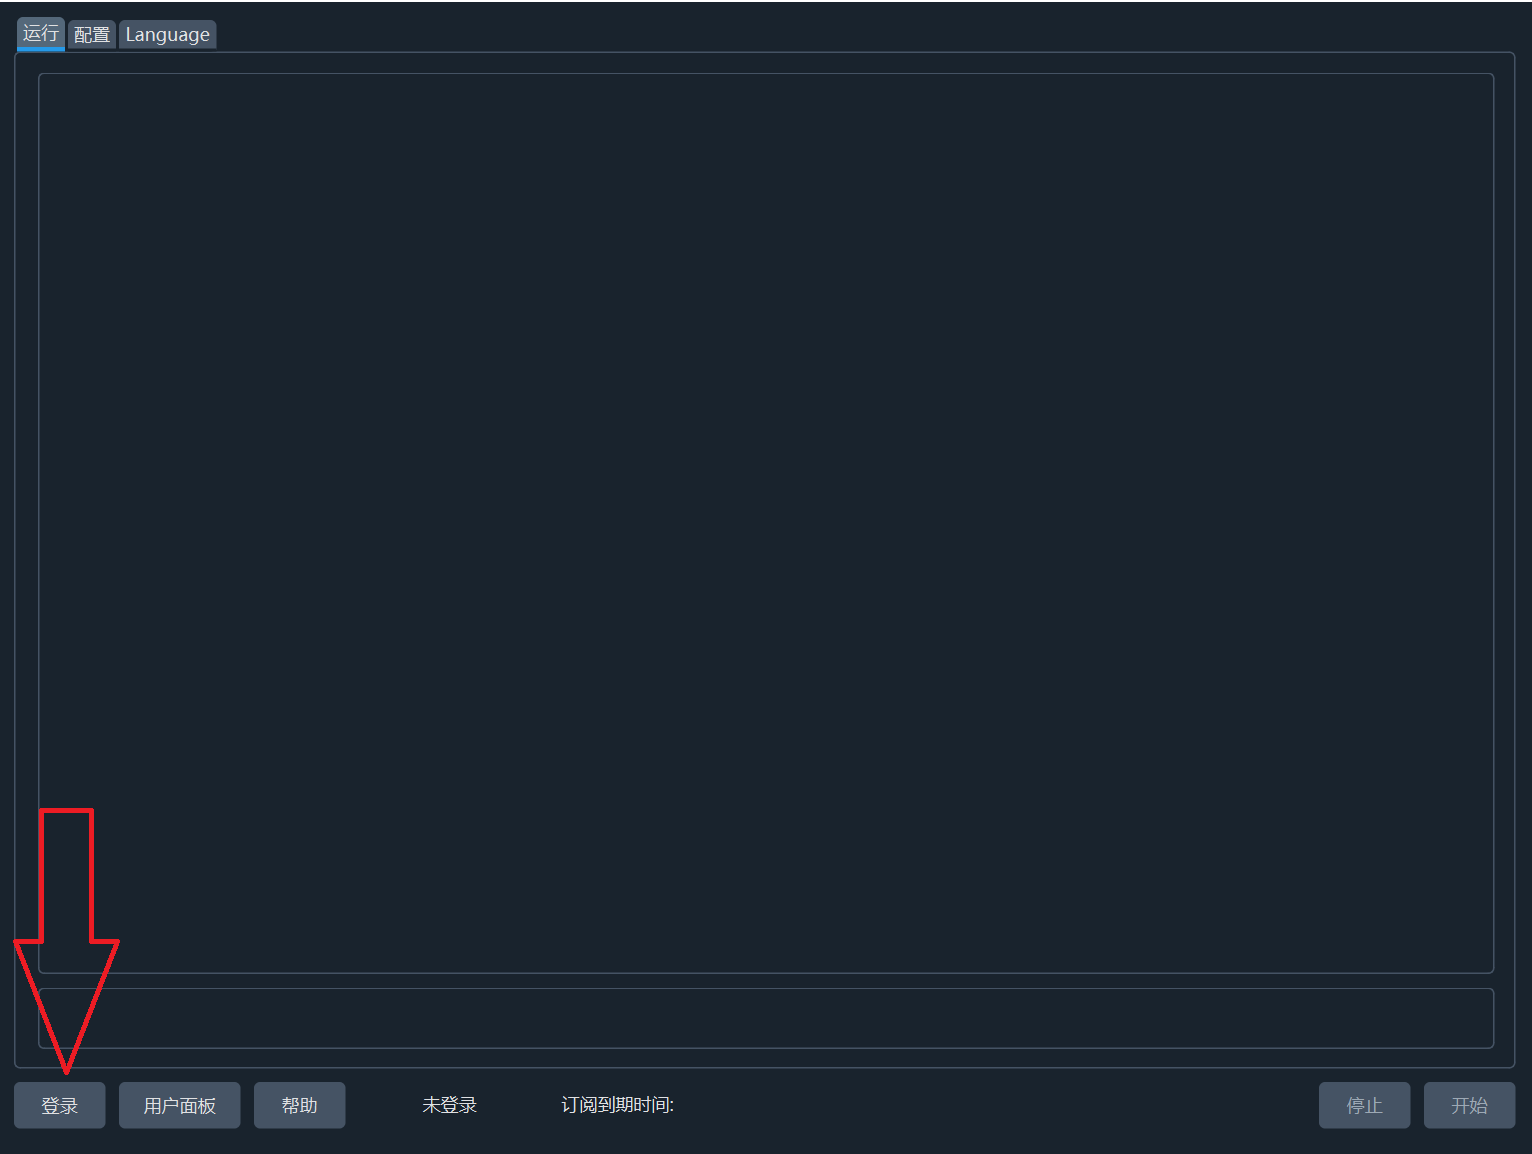
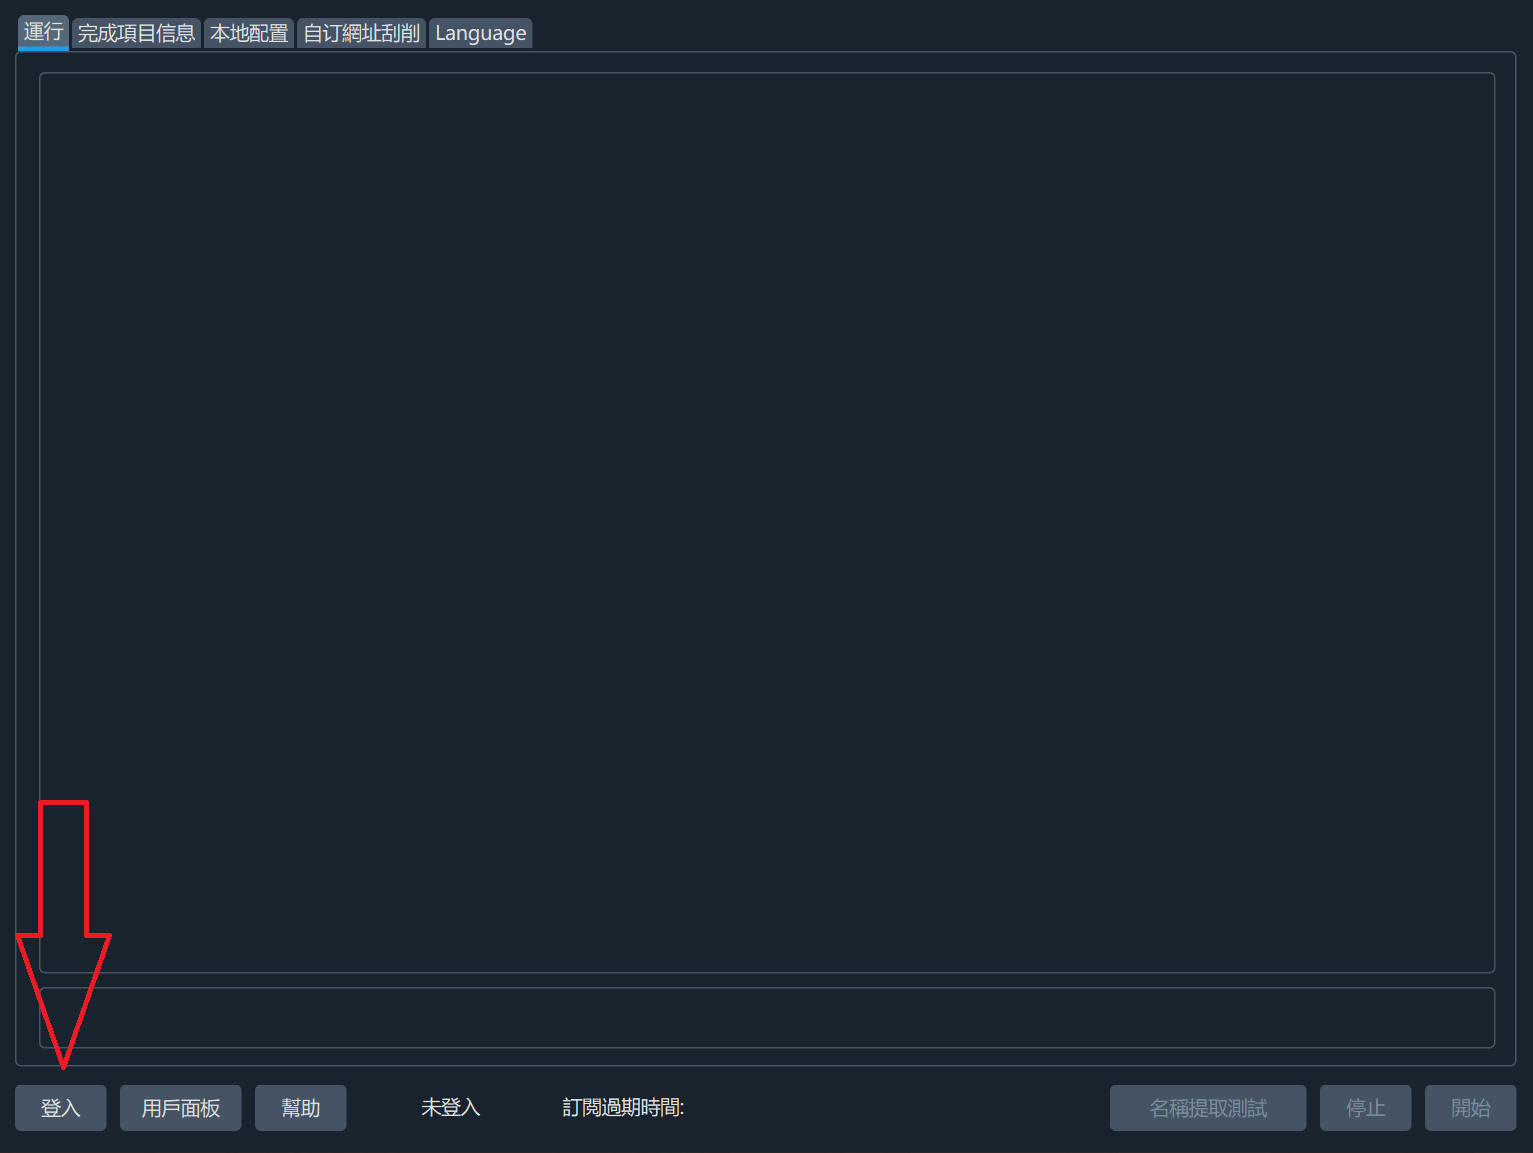
1

diff --git a/docs/cht/README.md b/docs/cht/README.md
@@ -21,8 +21,12 @@
 * 强烈建議在使用Docker版本前，先使用Windows或macOS版本
 
 ## 2. 註冊帳號並登入
-* 在網頁端的[用戶面板](https://user.mvdc.top)註冊帳號並登入
-* 可在網頁端登入後，進行個人化[設定](https://user.mvdc.top/configuration/general)，新用戶建議使用當前默認設定
+* 在網頁端的[用戶面板](https://user.mvdc.top)註冊帳號
+* 打開客戶端，點擊`登入`
+
+![](/images/readme1.png)
+
+* 可在網頁端登入後，進行個性化[設定](https://user.mvdc.top/configuration/general)，新用戶建議使用當前默認設定
 * 雲端配置支援多個配置實例，可新增多個雲端配置實例，應對不同類型的影片
 * 每個帳號最多可登入3台設備，兩種配置各最多6個雲端配置實例
 *（可選）如果頻繁使用或對資料精準有要求，建議閣下申請[TMDB API KEY](/cht/configuration.html#tmdb-api-key)填入雲端設定中
@@ -39,15 +43,15 @@
 
 * 預設情況下，輸入資料夾為程式所在目錄，輸出資料夾為程式所在目錄下新建的`output`資料夾
 
-### 外掛字幕文件
-若在`刮削目錄`中，字幕檔名前綴名與影片檔前綴名一致，則會在後續處理中，自動移動到與影片同一目錄下，同時在NFO元資料檔標籤中打上`字幕`標籤， 並為封面打上浮水印（可自行在網頁雲端設定頁面中開啟或關閉）
-
 ## 5. 檢查檔案命名，可參考[檔案命名規則](/cht/naming.html)
 
 * **根據影片類型在`本地配置`頁右下選擇相應`刮削類型`**
 
 * 請在處理影片前進行名稱提取檢查是否符合預期
 * 如果發現有提取名稱不符預期的影片，請手動重命名
+
+### 外掛字幕文件
+若在`刮削目錄`中，字幕檔名前綴名與影片檔前綴名一致，則會在後續處理中，自動移動到與影片同一目錄下，同時在NFO元資料檔標籤中打上`字幕`標籤， 並為封面打上浮水印（可自行在網頁雲端設定頁面中開啟或關閉）
 
 ## 6. 運行
 * 為確保資料安全，暫定每次執行最多處理1000部影片。 如果需要處理1000部以外的本地影片，請在每次執行完成後查看處理情況，繼續運行

diff --git a/docs/chs/README.md b/docs/chs/README.md
@@ -22,7 +22,11 @@
 * 强烈建议在首次使用Docker版本前，先使用Windows或macOS版本
 
 ## 2. 注册账号并登录
-* 在网页端的[用户面板](https://user.mvdc.top)注册账号并登录
+* 在网页端的[用户面板](https://user.mvdc.top)注册账号
+* 打开客户端，点击`登录`
+
+![](/images/readme1.png)
+
 * 可以进行个性化[配置](https://user.mvdc.top/configuration/general)，新用户建议使用当前默认配置
 * 云配置支持多个配置实例，可添加多个云配置实例，应对不同类型的影片
 * 每个账号最多可登录3台设备，两种配置各最多6个云配置实例
@@ -40,15 +44,15 @@
 
 * 默认情况下，输入文件夹为程序所在目录，输出文件夹为程序所在目录下新建的`output`文件夹
 
-### 外挂字幕文件
-若在`刮削目录`中，字幕文件名前缀名与影片文件前缀名一致，则会在后续处理中，自动移动到与影片同一目录下，同时在NFO元数据文件标签中打上`字幕`标签，并给封面打上水印（可自行在网页云配置页面中打开或关闭）
-
 ## 5. 检查媒体文件命名，参考[文件命名规则](/chs/naming.html)
 
 * **根据[文件命名规则](/chs/naming.html)在`本地配置`页右下，选择相应`刮削类型`**
 
 * 请在处理影片前进行**名称提取检查**是否符合预期
 * 如果发现有提取名称不符预期的影片，请手动重命名
+
+### 外挂字幕文件
+若在`刮削目录`中，字幕文件名前缀名与影片文件前缀名一致，则会在后续处理中，自动移动到与影片同一目录下，同时在NFO元数据文件标签中打上`字幕`标签，并给封面打上水印（可自行在网页云配置页面中打开或关闭）
 
 ## 6. 运行
 * 为保证数据安全，暂定每次运行最多处理1000部影片。如果需要处理1000部以外的本地影片，请在每次执行完成后查看处理情况，继续运行

diff --git a/docs/README.md b/docs/README.md
@@ -24,7 +24,11 @@
 * It is strongly recommended to use the Windows or macOS version before using the Docker version
 
 ## 2. Register an account and log in
-* Register an account and log in at the [User Panel] (https://user.mvdc.top) on the web page
+* Register an account at the [User Panel] (https://user.mvdc.top) on the web page
+* Open the client and click `Login`
+
+![](/images/readme1_en.png)
+
 * You can personalize [settings] after logging in on the web (https://user.mvdc.top/configuration/general). New users are recommended to use the current default settings.
 * Cloud configuration supports multiple configuration instances, and multiple cloud configuration instances can be added to handle different types of videos
 * Each account can log in to up to 3 devices, and each of the two configurations can have up to 6 cloud configuration instances.
@@ -37,6 +41,8 @@
 
 ## 4. Client settings
 * Set the scraping folder and output folder in the local client settings page
+
+![](/images/readme2_en.png)
 
 * By default, the input folder is the directory where the program is located, and the output folder is the newly created `output` folder in the directory where the program is located.
 
